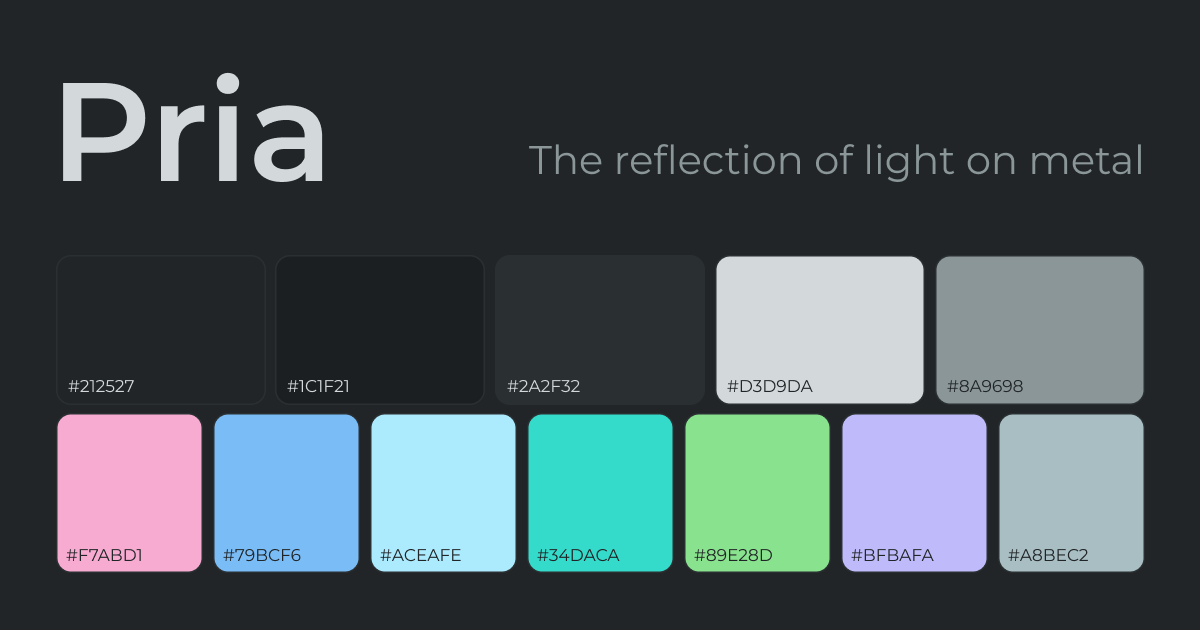
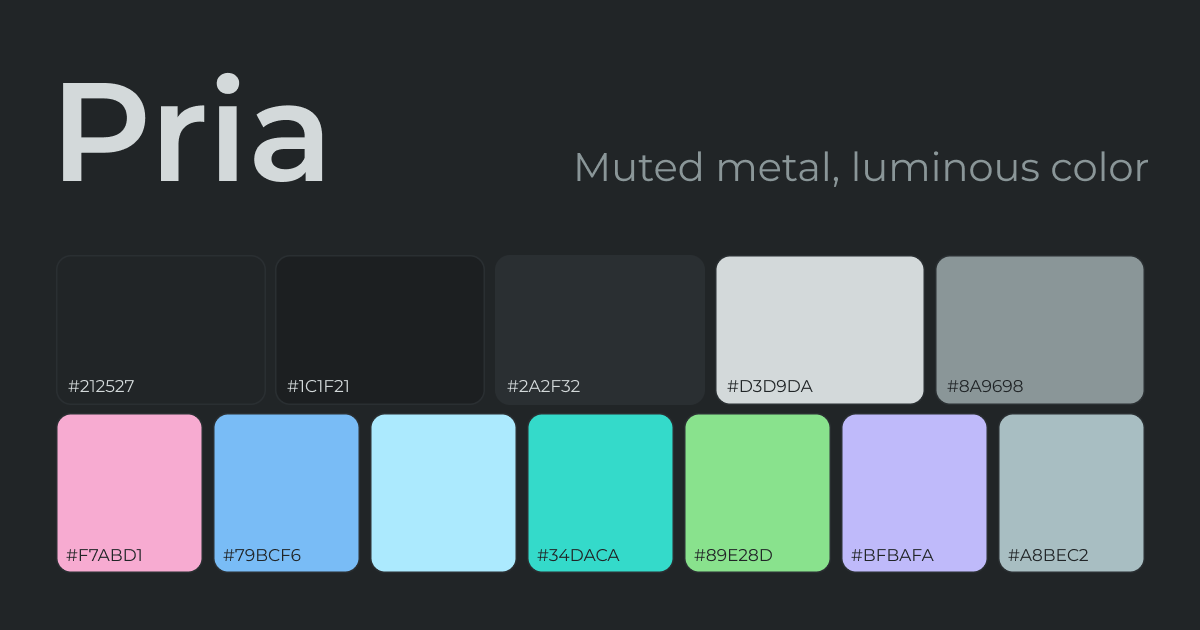
docs: Readme and assets

Changed region(s): [[0.4625, 0.2413, 0.9558, 0.3016], [0.3083, 0.8746, 0.37, 0.9048], [0.4317, 0.2111, 0.4625, 0.2413]]

diff --git a/README.md b/README.md
@@ -190,7 +190,7 @@ colorscheme pria
 ### Core palette
 
 | Color    | Hex       | RGB                  | Purpose                                  |
-| ---      | ---       | ---                  | ---                                      |
+| -------- | --------- | -------------------- | ---------------------------------------- |
 | `bg`     | `#212527` | `rgb(33, 37, 39)`    | Main background                          |
 | `bg2`    | `#1C1F21` | `rgb(28, 31, 33)`    | Recessed surfaces: floats and popups     |
 | `bg3`    | `#2A2F32` | `rgb(42, 47, 50)`    | Raised surfaces, separators, and borders |
@@ -208,7 +208,7 @@ colorscheme pria
 <summary>Interface colors</summary>
 
 | Color        | Hex       | RGB                  | Purpose                                                |
-| ---          | ---       | ---                  | ---                                                    |
+| ------------ | --------- | -------------------- | ------------------------------------------------------ |
 | `comment`    | `#798486` | `rgb(121, 132, 134)` | Comments                                               |
 | `faint`      | `#464D4F` | `rgb(70, 77, 79)`    | Line numbers, disabled text, and non-text UI           |
 | `structure`  | `#97ADB1` | `rgb(151, 173, 177)` | Operators, delimiters, and separators                  |
@@ -233,7 +233,7 @@ colorscheme pria
 <summary>Diff, git, and diagnostics</summary>
 
 | Color                | Hex                   | RGB                                      | Purpose                              |
-| ---                  | ---                   | ---                                      | ---                                  |
+| -------------------- | --------------------- | ---------------------------------------- | ------------------------------------ |
 | `git.add`            | `#89E28D`             | `rgb(137, 226, 141)`                     | Added files                          |
 | `git.change`         | `#ACEAFE`             | `rgb(172, 234, 254)`                     | Modified files                       |
 | `git.delete`         | `#FF7A7A`             | `rgb(255, 122, 122)`                     | Deleted files                        |
